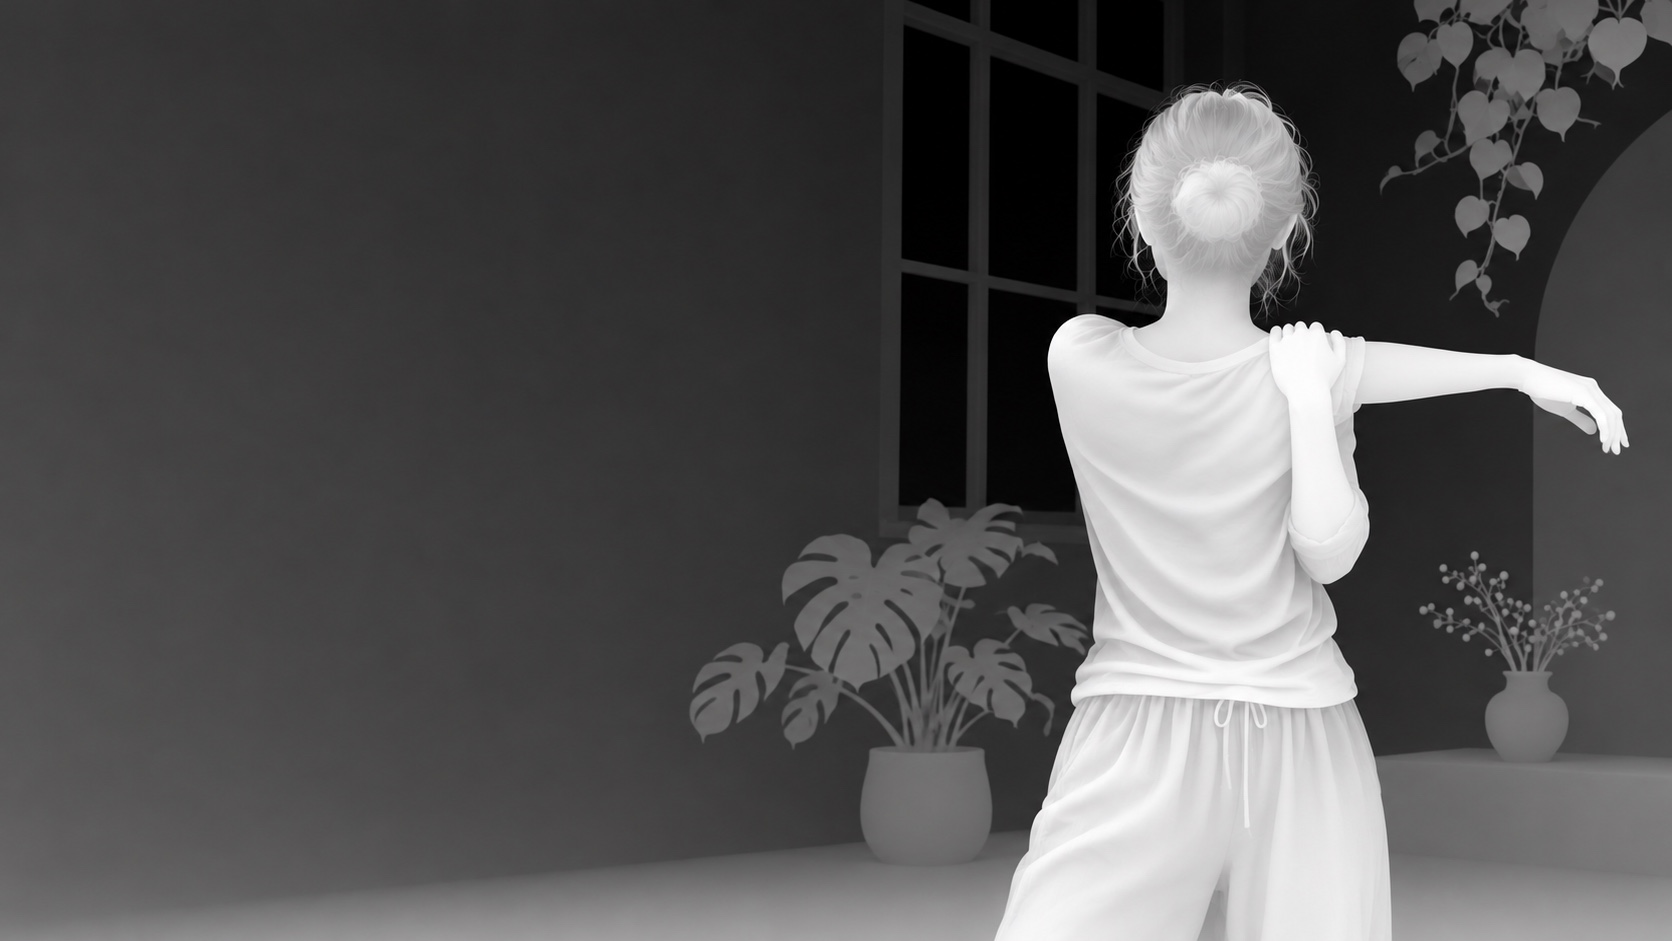
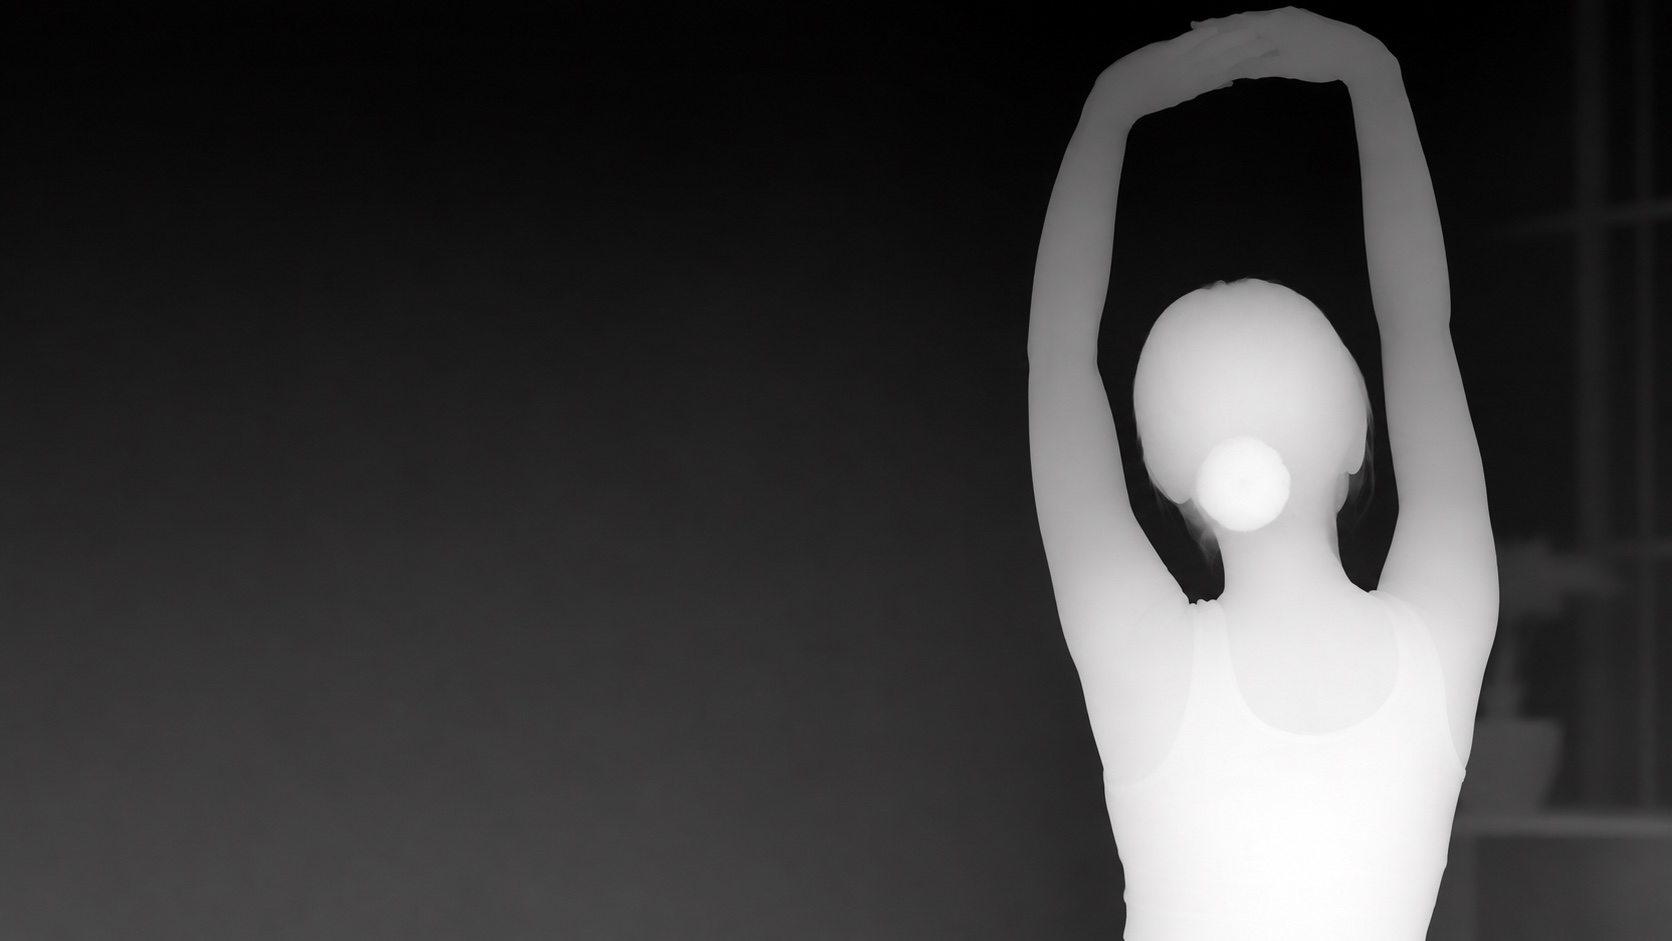
Refine services hero stretch pose and layout

diff --git a/services/index.html b/services/index.html
@@ -1,4 +1,4 @@
-<!doctype html><html lang="zh-Hant"><head><meta charset="UTF-8"><meta name="viewport" content="width=device-width,initial-scale=1"><meta name="description" content="了解舒逸美式活化槍全身調理的服務方式、與一般按摩的差異、適合了解的生活情境、第一次服務流程、時間、費用與線上預約方式。"><title>美式活化槍全身調理 服務方式與預約 舒逸 Shu Yi</title><link rel="preconnect" href="https://fonts.googleapis.com"><link rel="preconnect" href="https://fonts.gstatic.com" crossorigin><link href="https://fonts.googleapis.com/css2?family=DM+Mono:wght@400;500&family=Noto+Sans+TC:wght@400;500;600;700&display=swap" rel="stylesheet"><link rel="stylesheet" href="../styles.css?v=services-hero-balance-20261112h"></head><body><header class="site-header"><a class="brand" href="../" aria-label="舒逸首頁"><img class="brand-logo brand-logo--light" src="../素材/淺色系-1K.jpeg" alt="舒逸 Shu Yi"><img class="brand-logo brand-logo--dark" src="../素材/深色系-1K.jpeg" alt="" aria-hidden="true"><span>SHU YI</span></a><nav class="site-nav" aria-label="主要導覽"><a href="./" aria-current="page">活化調理</a><a href="../journal/">舒逸日常</a><a href="../studio/">工作室</a><a href="../booking/">預約</a></nav><div class="header-actions"><button class="theme-switch" type="button" aria-label="切換深淺色主題" aria-pressed="false"><span class="theme-switch__dot"></span><span class="theme-switch__label">LIGHT</span></button><button class="menu-button" type="button" aria-label="開啟選單" aria-expanded="false"><span></span><span></span></button></div></header><main class="services-page"><section class="page-hero"><p class="eyebrow">THE SHU YI WAY 01</p><h1>不只放鬆<br>是讓你重新<em>動起來</em></h1><p class="page-hero__lead">舒逸以美式活化槍為核心，依身體當下的感受與日常活動安排調理；不套用制式流程，也不把它稱為按摩。</p></section>
+<!doctype html><html lang="zh-Hant"><head><meta charset="UTF-8"><meta name="viewport" content="width=device-width,initial-scale=1"><meta name="description" content="了解舒逸美式活化槍全身調理的服務方式、與一般按摩的差異、適合了解的生活情境、第一次服務流程、時間、費用與線上預約方式。"><title>美式活化槍全身調理 服務方式與預約 舒逸 Shu Yi</title><link rel="preconnect" href="https://fonts.googleapis.com"><link rel="preconnect" href="https://fonts.gstatic.com" crossorigin><link href="https://fonts.googleapis.com/css2?family=DM+Mono:wght@400;500&family=Noto+Sans+TC:wght@400;500;600;700&display=swap" rel="stylesheet"><link rel="stylesheet" href="../styles.css?v=services-hero-balance-20261112i"></head><body><header class="site-header"><a class="brand" href="../" aria-label="舒逸首頁"><img class="brand-logo brand-logo--light" src="../素材/淺色系-1K.jpeg" alt="舒逸 Shu Yi"><img class="brand-logo brand-logo--dark" src="../素材/深色系-1K.jpeg" alt="" aria-hidden="true"><span>SHU YI</span></a><nav class="site-nav" aria-label="主要導覽"><a href="./" aria-current="page">活化調理</a><a href="../journal/">舒逸日常</a><a href="../studio/">工作室</a><a href="../booking/">預約</a></nav><div class="header-actions"><button class="theme-switch" type="button" aria-label="切換深淺色主題" aria-pressed="false"><span class="theme-switch__dot"></span><span class="theme-switch__label">LIGHT</span></button><button class="menu-button" type="button" aria-label="開啟選單" aria-expanded="false"><span></span><span></span></button></div></header><main class="services-page"><section class="page-hero"><p class="eyebrow">THE SHU YI WAY 01</p><h1>不只放鬆<br>是讓你重新<em>動起來</em></h1><p class="page-hero__lead">舒逸以美式活化槍為核心，依身體當下的感受與日常活動安排調理；不套用制式流程，也不把它稱為按摩。</p></section>
 <section class="section services-summary" aria-labelledby="summary-title">
   <div class="services-section-head"><p class="eyebrow">AT A GLANCE</p><h2 id="summary-title">30 秒了解舒逸全身活化調理</h2></div>
   <div class="services-summary__copy"><p>舒逸以美式活化槍為核心，會先了解你當下的身體感受、日常活動與工作習慣，再透過分段檢查與觀察安排此次調理。服務採預約制，不使用完全相同的固定流程套用在每一個人身上。</p><p class="services-boundary">舒逸提供的是日常身體照顧與放鬆服務，不取代醫療診斷或治療。</p></div>
@@ -26,4 +26,4 @@
 </div></section>
 <section class="section services-reading" aria-labelledby="studio-booking-title"><div class="services-section-head"><p class="eyebrow">YOUR NEXT STEP</p><h2 id="studio-booking-title">工作室與預約方式</h2></div><div class="services-prose"><p>目前採預約制，可透過舒逸線上預約平台查看最新服務項目、價格、可預約時段與預約資訊。</p><p>LINE 官方帳號是入口與聯繫管道，最終預約流程會導向舒逸自己的線上預約平台。你也可以透過系統管理預約與改期。</p><p>想先了解空間與到訪資訊，可查看<a href="/studio/">工作室</a>；日常的身體照顧筆記，整理在<a href="/journal/">更懂自己</a>。</p><a class="text-link" href="/booking/" data-booking-cta>查看預約方式與 LINE 入口 <span>→</span></a></div></section>
 <section class="callout"><h2>先理解<br><em>再安心開始</em></h2><div><p>看過服務內容後，選一段適合自己的時間。你可以在預約平台先詢問，再查看服務與時段。</p><a class="button button--primary" data-booking-cta data-booking-platform-outbound href="{{BOOKING_URL}}" target="_blank" rel="noopener">前往舒逸線上預約 <span>↗</span></a></div></section>
-</main><footer class="site-footer"><a class="brand" href="../"><span>舒逸</span><small>SHU YI</small></a><p>© 2026 SHU YI. MOVE WELL, LIVE LIGHT.</p><div><a href="../journal/">JOURNAL</a><a href="../booking/">BOOKING</a></div></footer><script src="../app.js?v=services-hero-balance-20261112h"></script></body></html>
+</main><footer class="site-footer"><a class="brand" href="../"><span>舒逸</span><small>SHU YI</small></a><p>© 2026 SHU YI. MOVE WELL, LIVE LIGHT.</p><div><a href="../journal/">JOURNAL</a><a href="../booking/">BOOKING</a></div></footer><script src="../app.js?v=services-hero-balance-20261112i"></script></body></html>

diff --git a/app.js b/app.js
@@ -32,7 +32,7 @@
     typeNext();
   });
   document.querySelectorAll('.site-nav').forEach((nav) => { const journalLink = [...nav.querySelectorAll('a')].find((link) => normalizePath(new URL(link.href, window.location.href).pathname) === '/journal'); if (journalLink) { journalLink.textContent = '更懂自己'; if (!nav.querySelector('.nav-service-details')) journalLink.insertAdjacentHTML('afterend', '<a class="nav-service-details" href="/offerings/">服務項目</a>'); } });
-  if (currentPath === '/services') { const serviceStyles = document.querySelector('link[href*="styles.css"]'); if (serviceStyles) serviceStyles.href = `${serviceStyles.href.split('?')[0]}?v=services-hero-balance-20261112h`; }
+  if (currentPath === '/services') { const serviceStyles = document.querySelector('link[href*="styles.css"]'); if (serviceStyles) serviceStyles.href = `${serviceStyles.href.split('?')[0]}?v=services-hero-balance-20261112i`; }
   if (currentPath === '/services') { const callout = document.querySelector('.callout'); if (callout && !callout.querySelector('.callout__signal')) callout.insertAdjacentHTML('beforeend', '<div class="callout__signal" aria-hidden="true"><span></span><span></span><span></span><span></span><span></span><span></span><span></span></div>'); }
   if (currentPath === '/journal') { const journalTitle = document.querySelector('.journal-page .page-hero h1'); const journalLead = document.querySelector('.journal-page .page-hero__lead'); const journalText = '讓舒適的身體，習以為常。從身體感受開始，探索活動、日常與那些讓自己更舒服的細節；每一篇，都是舒逸正在累積的身體筆記。'; if (journalTitle) journalTitle.innerHTML = '讓舒適的身體<br><em>習以為常</em>'; if (journalLead) { journalLead.classList.add('journal-typewriter'); journalLead.setAttribute('aria-label', journalText); journalLead.textContent = ''; let textIndex = 0; const typeNext = () => { if (textIndex >= journalText.length) return; const character = journalText[textIndex]; journalLead.textContent += character; textIndex += 1; window.setTimeout(typeNext, /[，。；]/.test(character) ? 180 : 30); }; typeNext(); } }
   if (currentPath === '/') { const journalLinkTitle = document.querySelector('.home-link[href*="journal"] h2'); if (journalLinkTitle) journalLinkTitle.innerHTML = '讓舒適的身體<br><em>習以為常</em>'; }

diff --git a/styles.css b/styles.css
@@ -836,8 +836,10 @@ html:has(.services-page) {
   z-index:3;
   width:min(600px,50%);
   max-width:none;
+  align-self:flex-start;
   margin-right:auto;
-  transform:translateY(-clamp(28px,4.5svh,48px));
+  margin-top:clamp(8px,2svh,20px);
+  transform:none;
 }
 .services-page > .page-hero--service .service-hero-art {
   position:absolute;
@@ -889,6 +891,8 @@ html:has(.services-page) {
     border-radius:18px;
   }
   .services-page > .page-hero--service .service-hero-art .service-spine { transform:scale(.42); }
+  .services-page > .page-hero--service .service-hero-art__status { top:8px; right:8px; bottom:auto; }
+  .services-page > .page-hero--service .service-hero-art__status > span:last-child { display:none; }
 }
 @media(prefers-reduced-motion:reduce) {
   .service-hero-relight { transition:none; }
